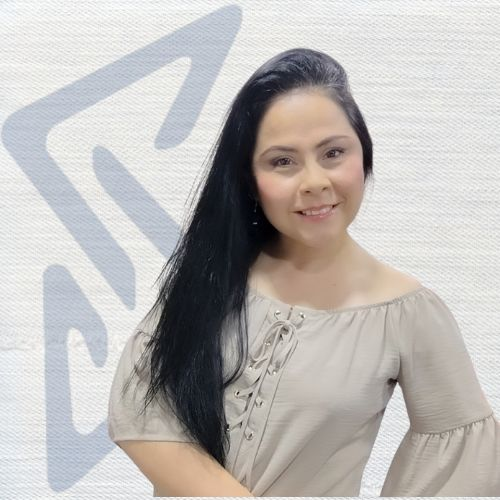
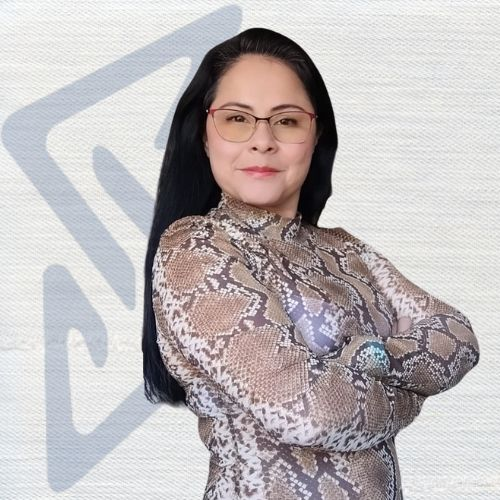
Se modifican fotos y se agrega diseñador

diff --git a/src/pages/Home.jsx b/src/pages/Home.jsx
@@ -8,6 +8,7 @@ import Layaout from '../containers/Layout';
 import CabezaFondo from '../assets/images/home-hero-bg.jpg';
 import FotoGyomar from '../assets/images/profile-photo-gyomar.jpg';
 import FotoDayana from '../assets/images/profile-photo-dayana.jpg';
+import FotoManuel from '../assets/images/profile-photo-manuel.jpg';
 import LogoIllustrator from '../assets/images/illustrator.svg';
 import LogoPhotoshop from '../assets/images/photoshop.svg';
 import LogoFigma from '../assets/images/figma.svg';
@@ -618,6 +619,23 @@ function Home() {
                       </Typography>
                       <Typography variant="body1">
                         Desarrolladora Web y Marketing Digital
+                      </Typography>
+                    </CardContent>
+                  </Card>
+                </Grid>
+                <Grid item>
+                  <Card sx={{ minWidth: 300 }} elevation={1}>
+                    <CardMedia
+                      sx={{ height: 260 }}
+                      image={FotoManuel}
+                      title="Foto Manuel"
+                    />
+                    <CardContent>
+                      <Typography variant="h6" gutterBottom>
+                        Manuel Buitrago
+                      </Typography>
+                      <Typography variant="body1">
+                        Diseñador Grafico y UI/UX
                       </Typography>
                     </CardContent>
                   </Card>
